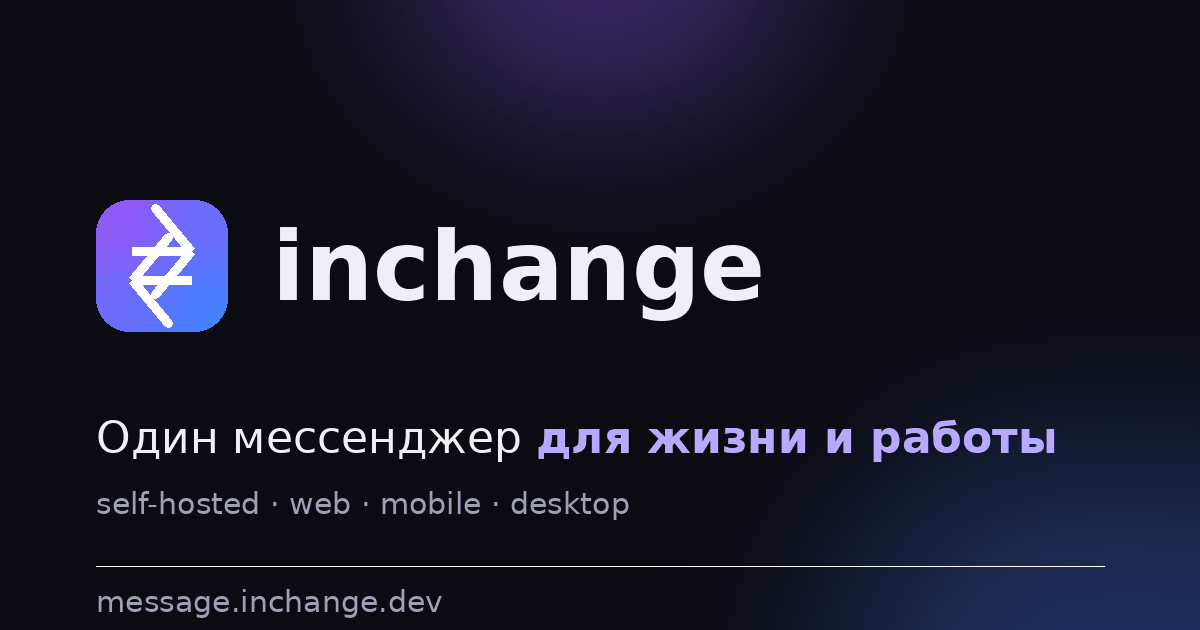
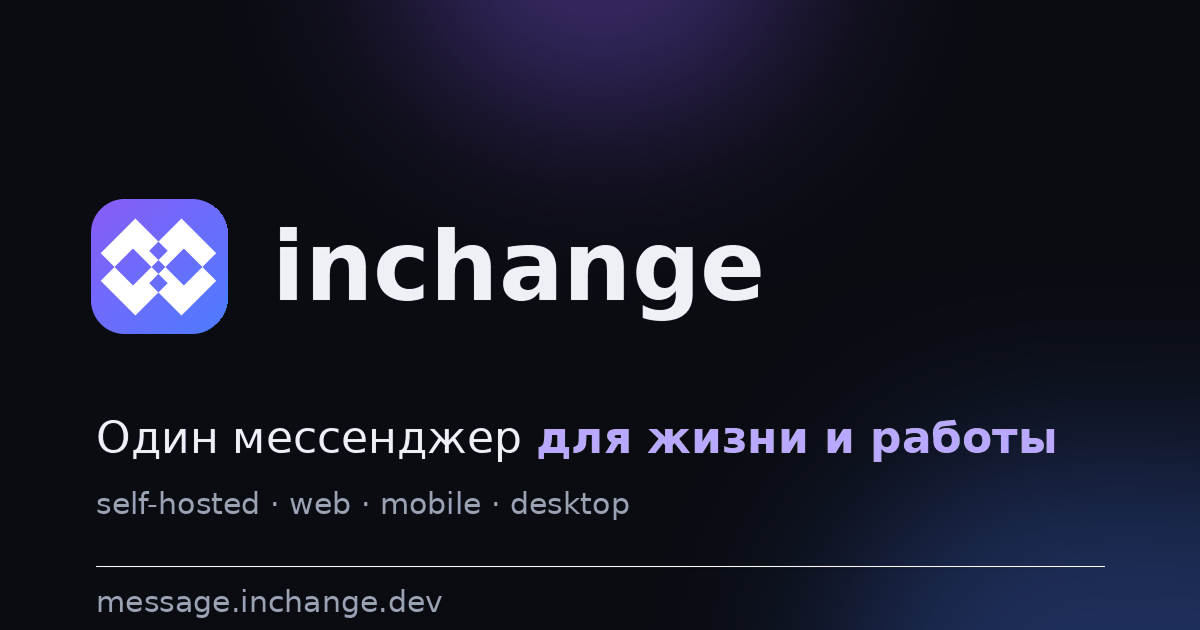
style(site): reformat markup and css, update brand assets, remove cta

Changed region(s): [[0.0617, 0.3016, 0.185, 0.5429]]

diff --git a/site/404.html b/site/404.html
@@ -1,50 +1,85 @@
-<!DOCTYPE html>
+<!doctype html>
 <html lang="ru">
-<head>
-  <meta charset="utf-8">
-  <meta name="viewport" content="width=device-width, initial-scale=1">
-  <title>404 — inchange</title>
-  <meta name="robots" content="noindex, follow">
-  <link rel="canonical" href="https://message.inchange.dev/">
-  <link rel="icon" href="assets/img/favicon.svg" type="image/svg+xml">
-  <meta name="theme-color" content="#0a0c12">
-  <link rel="stylesheet" href="assets/css/main.css">
-  <script src="assets/js/i18n.js" defer></script>
-</head>
-<body class="page-404">
-  <header class="top">
-    <a class="brand" href="index.html" aria-label="inchange">
-      <svg class="mark" viewBox="0 0 32 32" aria-hidden="true" focusable="false">
-        <defs>
-          <linearGradient id="brand-g" x1="0" y1="0" x2="1" y2="1">
-            <stop offset="0" stop-color="#8a5cf6"/>
-            <stop offset="1" stop-color="#4d7cff"/>
-          </linearGradient>
-        </defs>
-        <rect width="32" height="32" rx="8" fill="url(#brand-g)"/>
-        <path d="M9 12.5h10.5m0 0-3.2-3.2m3.2 3.2-3.2 3.2" fill="none" stroke="#fff" stroke-width="2.2" stroke-linecap="round" stroke-linejoin="round"/>
-        <path d="M23 19.5H12.5m0 0 3.2-3.2m-3.2 3.2 3.2 3.2" fill="none" stroke="#fff" stroke-width="2.2" stroke-linecap="round" stroke-linejoin="round"/>
-      </svg>
-      <span class="brand-name">inchange</span>
-    </a>
-    <nav class="lang" aria-label="Language / Язык">
-      <button type="button" class="lang-btn is-active" data-lang="ru" aria-pressed="true">RU</button>
-      <span class="lang-sep" aria-hidden="true">/</span>
-      <button type="button" class="lang-btn" data-lang="en" aria-pressed="false">EN</button>
-    </nav>
-  </header>
+  <head>
+    <meta charset="utf-8" />
+    <meta name="viewport" content="width=device-width, initial-scale=1" />
+    <title>404 — inchange</title>
+    <meta name="robots" content="noindex, follow" />
+    <link rel="canonical" href="https://message.inchange.dev/" />
+    <link rel="icon" href="assets/img/favicon.svg" type="image/svg+xml" />
+    <meta name="theme-color" content="#0a0c12" />
+    <link rel="stylesheet" href="assets/css/main.css" />
+    <script src="assets/js/i18n.js" defer></script>
+  </head>
+  <body class="page-404">
+    <header class="top">
+      <a class="brand" href="index.html" aria-label="inchange">
+        <svg
+          class="mark"
+          viewBox="0 0 32 32"
+          aria-hidden="true"
+          focusable="false"
+        >
+          <defs>
+            <linearGradient id="brand-g" x1="0" y1="0" x2="1" y2="1">
+              <stop offset="0" stop-color="#8a5cf6" />
+              <stop offset="1" stop-color="#4d7cff" />
+            </linearGradient>
+          </defs>
+          <rect width="32" height="32" rx="8" fill="url(#brand-g)" />
+          <path
+            d="M9 12.5h10.5m0 0-3.2-3.2m3.2 3.2-3.2 3.2"
+            fill="none"
+            stroke="#fff"
+            stroke-width="2.2"
+            stroke-linecap="round"
+            stroke-linejoin="round"
+          />
+          <path
+            d="M23 19.5H12.5m0 0 3.2-3.2m-3.2 3.2 3.2 3.2"
+            fill="none"
+            stroke="#fff"
+            stroke-width="2.2"
+            stroke-linecap="round"
+            stroke-linejoin="round"
+          />
+        </svg>
+        <span class="brand-name">inchange</span>
+      </a>
+      <nav class="lang" aria-label="Language / Язык">
+        <button
+          type="button"
+          class="lang-btn is-active"
+          data-lang="ru"
+          aria-pressed="true"
+        >
+          RU
+        </button>
+        <span class="lang-sep" aria-hidden="true">/</span>
+        <button
+          type="button"
+          class="lang-btn"
+          data-lang="en"
+          aria-pressed="false"
+        >
+          EN
+        </button>
+      </nav>
+    </header>
 
-  <main id="main" class="hero hero-404">
-    <p class="code404" aria-hidden="true">404</p>
-    <h1 data-i18n="t404">Страница не найдена</h1>
-    <p class="sub" data-i18n="d404">Такой страницы нет. Возможно, она появится позже — мы ведь ещё в пути.</p>
-    <p class="cta-wrap">
-      <a class="cta" href="index.html" data-i18n="home">На главную</a>
-    </p>
-  </main>
+    <main id="main" class="hero hero-404">
+      <p class="code404" aria-hidden="true">404</p>
+      <h1 data-i18n="t404">Страница не найдена</h1>
+      <p class="sub" data-i18n="d404">
+        Такой страницы нет. Возможно, она появится позже.
+      </p>
+    </main>
 
-  <footer class="foot">
-    <p><span data-i18n="footerTag">Self-hosted AI-мессенджер</span>&nbsp;·&nbsp;© 2026 inchange</p>
-  </footer>
-</body>
+    <footer class="foot">
+      <p>
+        <span data-i18n="footerTag">Self-hosted AI-мессенджер</span
+        >&nbsp;·&nbsp;© 2026 inchange
+      </p>
+    </footer>
+  </body>
 </html>

diff --git a/site/assets/css/main.css b/site/assets/css/main.css
@@ -1,5 +1,3 @@
-/* inchange placeholder site — dark premium, single screen, no frameworks, no external requests */
-
 :root {
   --bg: #0a0c12;
   --fg: #eef0f6;
@@ -11,14 +9,18 @@
   --accent-2: #4d7cff;
   --accent-soft: #b9a8ff;
   --accent-line: rgba(138, 92, 246, 0.32);
-  --glow-1: rgba(124, 92, 246, 0.30);
-  --glow-2: rgba(77, 124, 255, 0.20);
-  --shadow: 0 10px 34px rgba(124, 92, 246, 0.30);
+  --glow-1: rgba(124, 92, 246, 0.3);
+  --glow-2: rgba(77, 124, 255, 0.2);
+  --shadow: 0 10px 34px rgba(124, 92, 246, 0.3);
 }
 
-* { box-sizing: border-box; }
+* {
+  box-sizing: border-box;
+}
 
-html { -webkit-text-size-adjust: 100%; }
+html {
+  -webkit-text-size-adjust: 100%;
+}
 
 body {
   margin: 0;
@@ -29,13 +31,12 @@ body {
   padding: clamp(0.9rem, 2.5vw, 2rem) clamp(1rem, 4vw, 3rem);
   background: var(--bg);
   color: var(--fg);
-  font-family: -apple-system, BlinkMacSystemFont, "Segoe UI", Roboto,
-    "Helvetica Neue", Arial, "Noto Sans", sans-serif;
+  font-family:
+    -apple-system, BlinkMacSystemFont, "Segoe UI", Roboto, "Helvetica Neue",
+    Arial, "Noto Sans", sans-serif;
   line-height: 1.55;
   -webkit-font-smoothing: antialiased;
 }
-
-/* Ambient glow behind hero (no images, pure CSS) */
 
 body::before {
   content: "";
@@ -101,9 +102,15 @@ body::before {
   border-bottom-color: var(--accent-1);
 }
 
-.lang-btn:focus-visible { outline: 2px solid var(--accent-1); outline-offset: 2px; }
+.lang-btn:focus-visible {
+  outline: 2px solid var(--accent-1);
+  outline-offset: 2px;
+}
 
-.lang-sep { color: var(--muted); opacity: 0.6; }
+.lang-sep {
+  color: var(--muted);
+  opacity: 0.6;
+}
 
 /* Hero */
 
@@ -224,25 +231,6 @@ h1 {
   line-height: 1.45;
 }
 
-/* CTA */
-
-.cta-wrap { margin: clamp(1.5rem, 4.5vh, 2.5rem) 0 0; }
-
-.cta {
-  display: inline-block;
-  padding: 0.75rem 1.9rem;
-  border-radius: 999px;
-  background: linear-gradient(120deg, var(--accent-1), var(--accent-2));
-  color: #ffffff;
-  font-weight: 650;
-  font-size: 1rem;
-  text-decoration: none;
-  box-shadow: var(--shadow);
-}
-
-.cta:hover { filter: brightness(1.08); }
-.cta:focus-visible { outline: 2px solid var(--accent-2); outline-offset: 3px; }
-
 /* Footer */
 
 .foot {
@@ -252,7 +240,9 @@ h1 {
   font-size: 0.8rem;
 }
 
-.foot p { margin: 0; }
+.foot p {
+  margin: 0;
+}
 
 /* 404 */
 
@@ -268,25 +258,50 @@ h1 {
   color: transparent;
 }
 
-/* Compact heights: keep everything on one screen */
-
 @media (max-height: 640px) {
-  .feature { padding: 0.6rem 0.8rem; }
-  .ftext p { display: none; }
-  .badge { margin-bottom: 0.7rem; }
-  .hero { padding: 0.6rem 0; }
+  .feature {
+    padding: 0.6rem 0.8rem;
+  }
+  .ftext p {
+    display: none;
+  }
+  .badge {
+    margin-bottom: 0.7rem;
+  }
+  .hero {
+    padding: 0.6rem 0;
+  }
 }
 
 @media (max-height: 480px) {
-  .badge, .sub, .foot { display: none; }
-  h1 { font-size: clamp(1.2rem, 3.4vw, 1.7rem); }
-  .features { margin-top: 0.7rem; gap: 0.4rem; }
-  .feature { padding: 0.4rem 0.6rem; gap: 0.55rem; }
-  .ficon-tile { width: 26px; height: 26px; border-radius: 7px; }
-  .ficon { width: 15px; height: 15px; }
-  .ftext h2 { font-size: 0.82rem; }
-  .cta-wrap { margin: 0.7rem 0 0; }
-  .cta { padding: 0.5rem 1.4rem; font-size: 0.9rem; }
+  .badge,
+  .sub,
+  .foot {
+    display: none;
+  }
+  h1 {
+    font-size: clamp(1.2rem, 3.4vw, 1.7rem);
+  }
+  .features {
+    margin-top: 0.7rem;
+    gap: 0.4rem;
+  }
+  .feature {
+    padding: 0.4rem 0.6rem;
+    gap: 0.55rem;
+  }
+  .ficon-tile {
+    width: 26px;
+    height: 26px;
+    border-radius: 7px;
+  }
+  .ficon {
+    width: 15px;
+    height: 15px;
+  }
+  .ftext h2 {
+    font-size: 0.82rem;
+  }
 }
 
 @media (max-width: 480px) {
@@ -297,14 +312,33 @@ h1 {
     align-items: center;
     padding: 0.5rem 0.75rem;
   }
-  .ftext p { display: none; }
-  .ficon-tile { width: 30px; height: 30px; border-radius: 8px; }
-  .ficon { width: 17px; height: 17px; }
-  .ftext h2 { font-size: 0.9rem; }
-  h1 { font-size: clamp(1.5rem, 6.5vw, 1.9rem); }
-  .sub { margin-top: 0.8rem; font-size: 0.9rem; }
-  .badge { margin-bottom: 0.7rem; }
-  .features { margin-top: 1rem; gap: 0.45rem; }
-  .cta-wrap { margin: 1.1rem 0 0; }
-  .cta { display: block; }
+  .ftext p {
+    display: none;
+  }
+  .ficon-tile {
+    width: 30px;
+    height: 30px;
+    border-radius: 8px;
+  }
+  .ficon {
+    width: 17px;
+    height: 17px;
+  }
+  .ftext h2 {
+    font-size: 0.9rem;
+  }
+  h1 {
+    font-size: clamp(1.5rem, 6.5vw, 1.9rem);
+  }
+  .sub {
+    margin-top: 0.8rem;
+    font-size: 0.9rem;
+  }
+  .badge {
+    margin-bottom: 0.7rem;
+  }
+  .features {
+    margin-top: 1rem;
+    gap: 0.45rem;
+  }
 }

diff --git a/site/assets/js/i18n.js b/site/assets/js/i18n.js
@@ -14,10 +14,9 @@
       f2d: "Ваши данные остаются у вас. Свой сервер — свои правила.",
       f3t: "Web, телефон и компьютер",
       f3d: "Приложения для браузера, iOS/Android и десктопа — всё синхронизировано.",
-      cta: "Написать нам",
       footerTag: "Self-hosted AI-мессенджер",
       t404: "Страница не найдена",
-      d404: "Такой страницы нет. Возможно, она появится позже — мы ведь ещё в пути.",
+      d404: "Такой страницы нет. Возможно, она появится позже.",
       home: "На главную"
     },
     en: {
@@ -31,10 +30,9 @@
       f2d: "Your data stays yours. Your server, your rules.",
       f3t: "Web, phone and desktop",
       f3d: "Apps for the browser, iOS/Android and desktop — all kept in sync.",
-      cta: "Contact us",
       footerTag: "Self-hosted AI messenger",
       t404: "Page not found",
-      d404: "This page does not exist. It may appear later — we are still on our way.",
+      d404: "This page does not exist. It may appear later.",
       home: "Home"
     }
   };

diff --git a/site/index.html b/site/index.html
@@ -233,12 +233,6 @@
           </div>
         </li>
       </ul>
-
-      <p class="cta-wrap">
-        <a class="cta" href="https://t.me/dauxdu/" data-i18n="cta"
-          >Написать нам</a
-        >
-      </p>
     </main>
 
     <footer class="foot">
